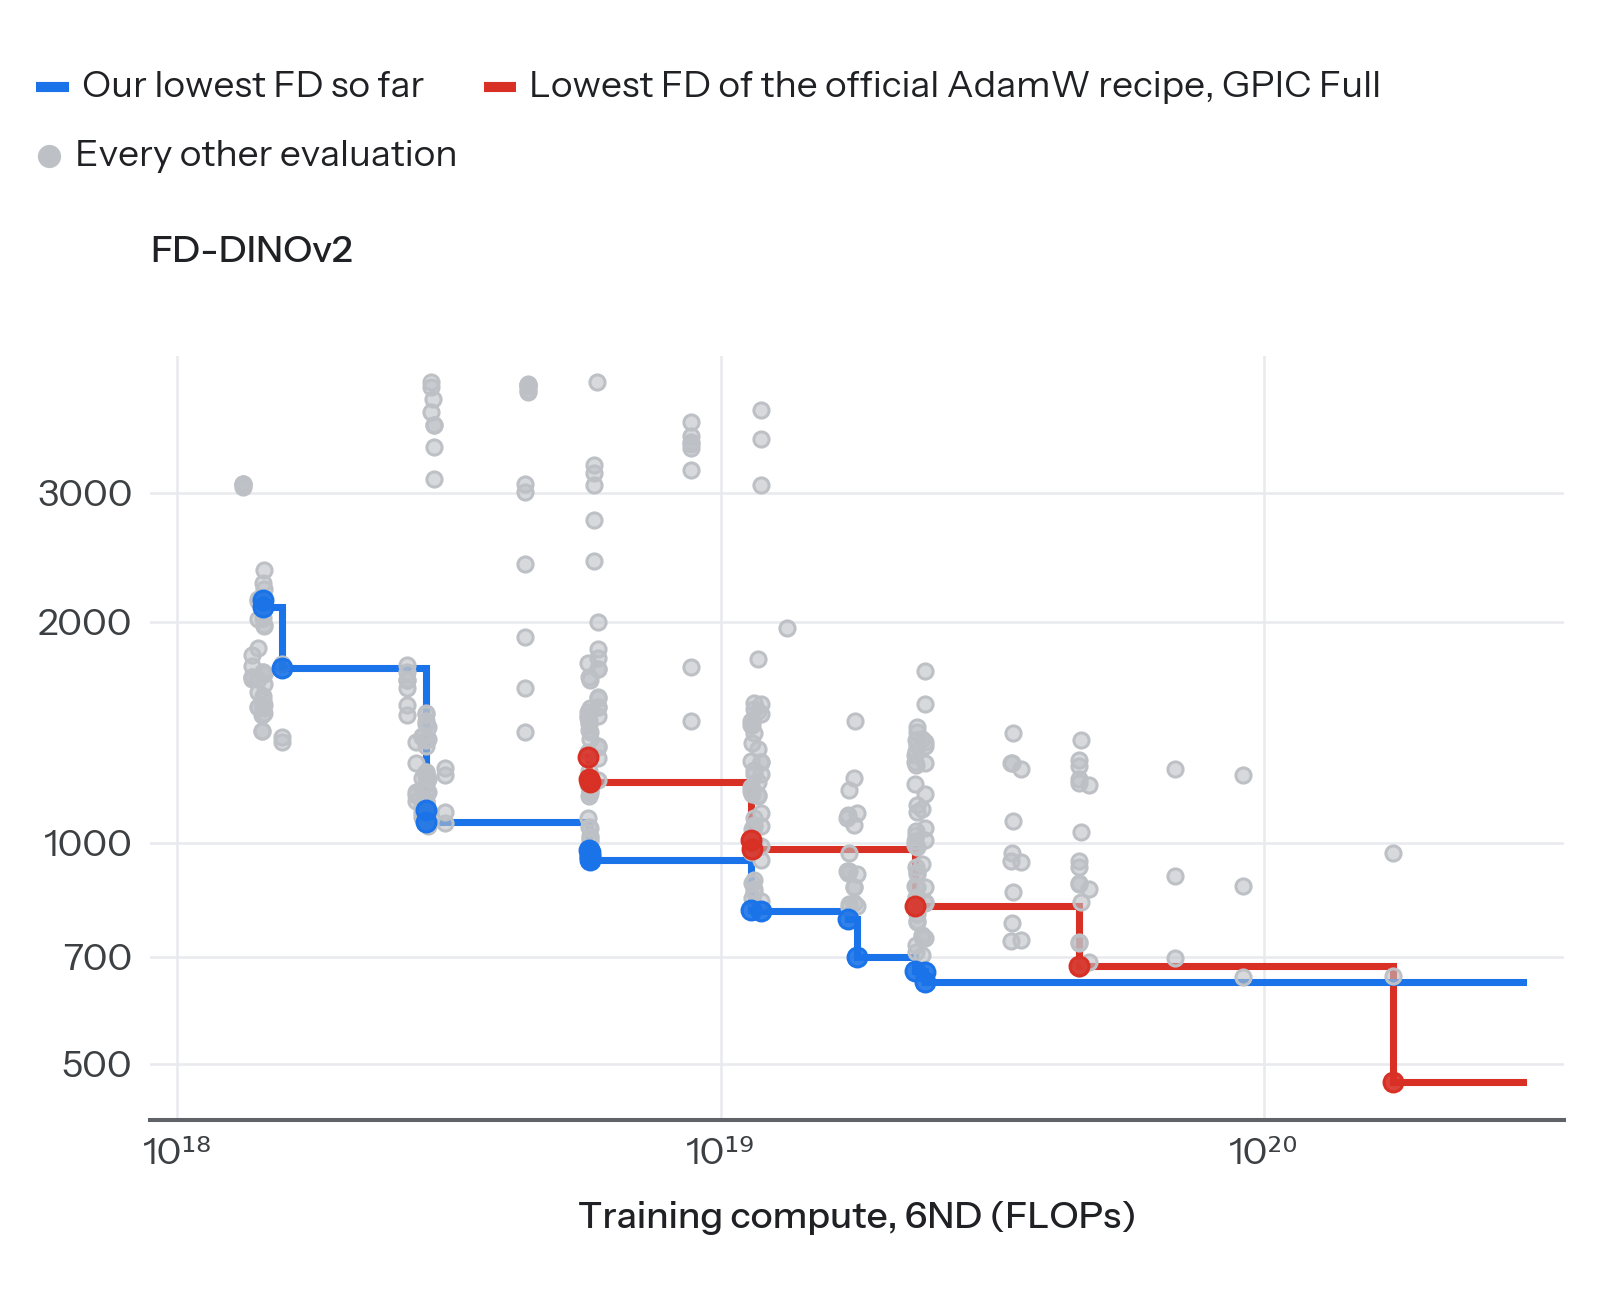
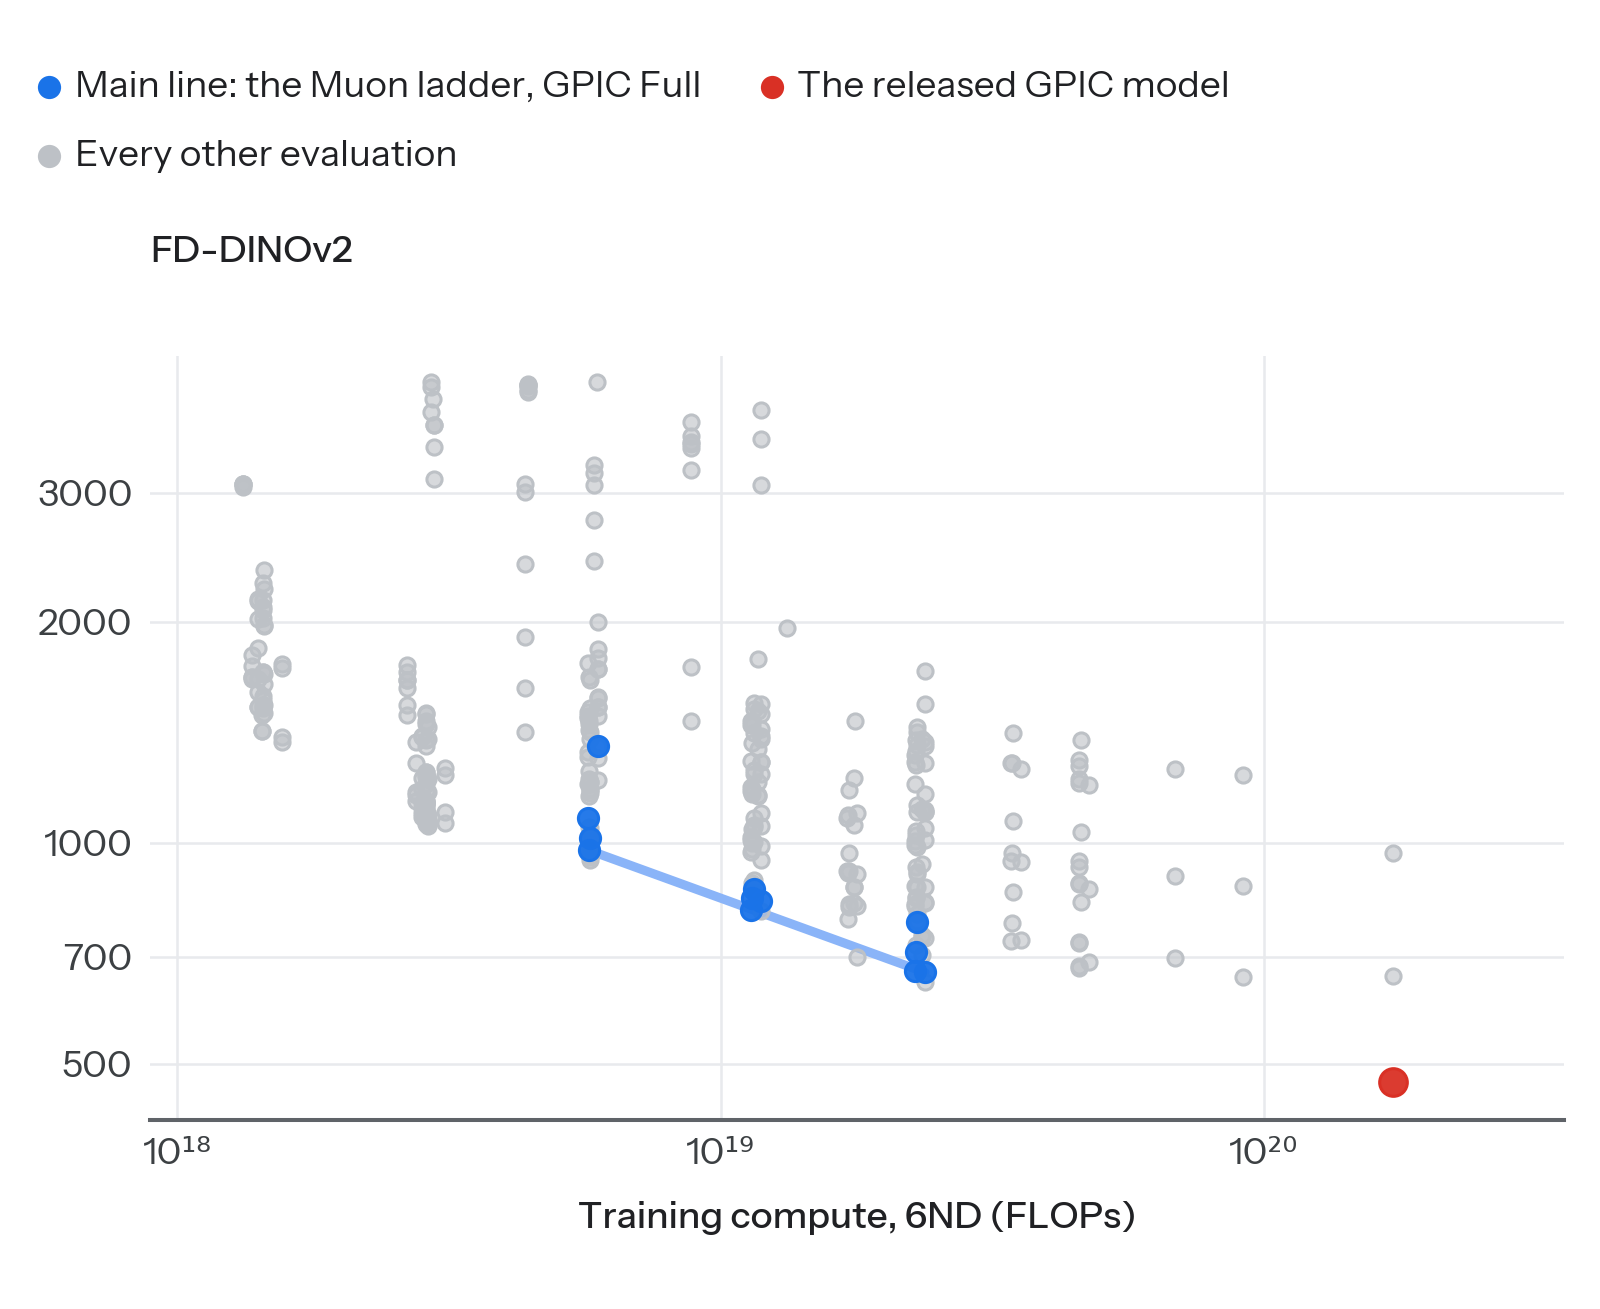
README: widths 1536 and 1792 at Muon 6.8e-3 (released 11-07); the all-points figure with the main-line ladder in blue, its trend in light blue and the released model in red (owner); item 6 with both second-seed repeats (one bucket per step: FD seed-dependent, 4% higher on average; thirty-two buckets
Claude-Session: https://claude.ai/code/session_01Dj2myTCELmdJC3HxvFjMpm

diff --git a/README.md b/README.md
@@ -40,8 +40,8 @@ bash jobs/train_muon_ladder.sh full d768  768  10 2 85024  2 5.0e-4 3.4e-3
 bash jobs/train_muon_ladder.sh full d896  896  11 2 57600  4 4.1e-4 3.4e-3
 bash jobs/train_muon_ladder.sh full d1024 1024 12 3 40192  8 3.3e-4 3.4e-3
 bash jobs/train_muon_ladder.sh full d1280 1280 14 3 22400  8 2.4e-4 6.8e-3
-bash jobs/train_muon_ladder.sh full d1536 1536 16 4 13600  8 1.8e-4 3.4e-3
-bash jobs/train_muon_ladder.sh full d1792 1792 18 4 8992   8 1.4e-4 3.4e-3
+bash jobs/train_muon_ladder.sh full d1536 1536 16 4 13600  8 1.8e-4 6.8e-3
+bash jobs/train_muon_ladder.sh full d1792 1792 18 4 8992   8 1.4e-4 6.8e-3
 ```
 
 Each line trains one width on one 8×H100 node, resumes from its last checkpoint, and carries the width's speed settings itself. Before the first run: GPIC Full (`tools/download_full.py`) and its Qwen3-1.7B caption features (`jobs/encode_captions.sh`, checked by `tools/check_text_cache.py`). The scripts keep absolute paths and a job-queue wrapper, so set them to yours.
@@ -65,16 +65,16 @@ The goal:
 3. Only then test new methods, each against the ladder at the same compute.
 
 - **Model.** PixelGen's JiT-T2I: x-prediction flow matching, 16-pixel patches (256 image tokens per 256 × 256 image), Qwen3-1.7B caption features. Widths 640 to 1792, from 109M to 1.68B parameters.
-- **Recipe.** MiniT2I's settings (Adam, batch 1024, β2 0.95), turned into the MuP version of Muon by lr × 0.2√d ([Su, 2025](https://kexue.fm/archives/11416)): Muon at 3.4e-3 for the transformer matrices (6.8e-3 at width 1280, where its own runs prefer it; widths 1536 and 1792 wait for theirs), Adam for the rest, 1000 warmup steps and a constant rate after them, EMA 0.9996 per step, no CFG.
+- **Recipe.** MiniT2I's settings (Adam, batch 1024, β2 0.95), turned into the MuP version of Muon by lr × 0.2√d ([Su, 2025](https://kexue.fm/archives/11416)): Muon at 3.4e-3 for the transformer matrices (6.8e-3 from width 1280: width 1280's own runs prefer it, width 1792's tie in FD and favour it in held-out loss, and width 1536 lies between them), Adam for the rest, 1000 warmup steps and a constant rate after them, EMA 0.9996 per step, no CFG.
 - **Budgets.** One run per width, read at C0/4, C0/2, C0, 2C0, 4C0 and 8C0.
 - **Data.** GPIC Full (101.1M images) and GPIC Lite (10.1M), plus repetition arms on the first 80 shards (1.01M images) and the first 8 (101K).
 - **Scores.** FD-DINOv2 with the official evaluation (Euler at 50 steps, 50,000 test captions, one noise for all prompts, CFG 1), and the loss on 3072 held-out images at 16 noise levels with fixed noise.
 
 ## What we have so far
 
-<img src="docs/readme/readme_all_points.png" width="560" alt="FD of every evaluation against training compute 6ND: our frontier and the official recipe's frontier">
+<img src="docs/readme/readme_all_points.png" width="560" alt="FD of every evaluation against training compute 6ND: the main-line ladder and the released model">
 
-Every evaluation of every run, against training compute 6ND. Blue is our frontier, the lowest FD reached at or below each compute in the standard evaluation; red is the same frontier for the official AdamW recipe on GPIC Full, its ladder and the released model; grey is every other evaluation, whatever its sampler.
+Every evaluation of every run, against training compute 6ND. Blue is the main line, the Muon ladder on GPIC Full, and the light-blue line follows the lowest FD of each of its budgets; red is the released GPIC model; both in the standard evaluation (Euler 50, the official noise, CFG 1). Grey is every other evaluation.
 
 <img src="docs/readme/readme_muon_adamw.png" width="560" alt="FD at 1.4e19 FLOPs by parameters, Muon against AdamW">
 
@@ -89,7 +89,7 @@ Every evaluation of every run, against training compute 6ND. Blue is our frontie
 
 4. **The EMA lags in short runs.** The EMA starts at the initial weights and keeps 0.9996^step of them. Above a 1% share its held-out loss is 4.5% to 590% above the raw weights'; below 0.2% it is 0.3% to 0.8% lower. Short runs and the first budgets of the widest models are read from the raw weights or need a later EMA; a sweep of the EMA decay is running.
 5. **Repetition.** On the AdamW ladders, GPIC Lite costs nothing up to 17 passes over its 10.1M images: its held-out loss is within −0.12% to +0.07% of Full's at the same width and step. The 1.01M and 101K arms (135 to 1350 passes) are running.
-6. **FD needs care.** Seven runs at width 640 whose held-out loss agrees to 0.07% differ by up to 7% in FD, depending on how captions are batched: one caption-length bucket per step scores 1006 and 1017, eight buckets 983, packed captions that mix every length in every step 975, and thirty-two buckets 949 to 959. Two repeats with a second seed measure FD's spread between runs; until they report, small FD gaps between single runs are read from the held-out loss.
+6. **FD needs care.** Nine runs at width 640 whose held-out loss agrees to 0.07% span FD 949 to 1017. With one caption-length bucket per step, FD depends on the seed (966.6 to 1016.6) and averages 4% above runs with thirty-two buckets per step, which repeat within 0.3%. The ladder keeps the one-bucket setting, the fastest, and reads small FD gaps between single runs from the held-out loss.
 7. **Fixes.** A torch 2.7.1 Inductor C++-wrapper template dropped a reference to `None` on every compiled call and crashed long runs (`src/utils/patch_bugs.py`). The shared caption bucket hung at the end of a data pass and dropped unfinished batches there (`src/data/shared_bucket_loader.py`, `src/data/dataset/gpic_dataset.py`).
 
 ## Where the code is
